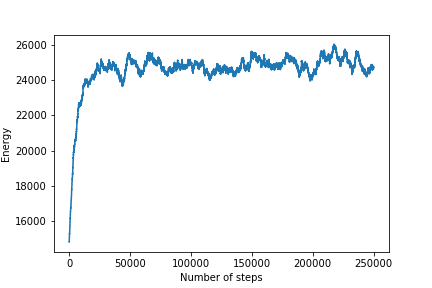
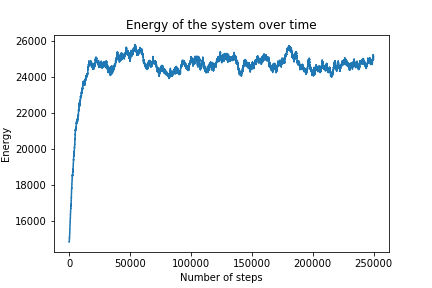
finished q1

diff --git a/Lab11/tex_file/PHY407_Lab11.tex b/Lab11/tex_file/PHY407_Lab11.tex
@@ -23,10 +23,17 @@
 
 \section{A First Monte Carlo Simulation}
 
+\subsection{Part a)}
+
+We seek to create plots of the energy as a function of time for the simulated ideal gas, as well as the frequency distribution of the energy of individual particles once the system reaches equlibrium, in the case $k_BT=10$ for the simulation of an ideal gas provided.
+
+We were able to achieve this with effectively no modifications to the code provided. The graphs produced are provided below in figures \ref{fig:q1a_energy} and \ref{fig:q1a_hist}.
+
 \begin{figure}[H]
 	\centering
 	\includegraphics[width=0.7\textwidth]{../images/q1a_energy.png}
-	\caption{}
+	\caption{Plot of the energy of the system over 250000 steps of the process of randomly increasing the states of random particles depending on the energy and temperature of the system.}
+	\label{fig:q1a_energy}
 \end{figure}
 
 \begin{figure}[H]
@@ -37,7 +44,41 @@
 		\begin{minipage}{0.49\linewidth}
 		\includegraphics[width=\linewidth]{../images/q1a_n_hist.png}
 	\end{minipage}
+	\caption{Histograms of the distribution of values of the normalized energy $e_n = n^2$ (left) and the value of $n$ (right) for the system after 250,000 steps, when it is in equilibrium.}
+	\label{fig:q1a_hist}
 \end{figure}
+
+\subsection{Part b)}
+
+We seek to calculate the value of the total energy at equilibrium, and the average value of the quantum number $n$, for the system at various temperatures.
+
+In order to achieve this, we adapted the code from part a) to iterate over the different temperatures desired, and run the Monte Carlo energy calculating scheme for each. In order to determine how long to run the simulation for at each temperature, we used a condition which would, at every 200,000th step, calculate the average energy across the most recent 200,000 steps and compare it to that of the previous set of 200,000 steps. Once the average energy of the more recent set of 200,000 steps is less than or equal to that of the previous set, we conclude that the system must have reached equilibrium, and stop iterating. The value of 200,000 was chosen from a combination of visual inspection of the size of the fluctuations in the energy and a component of trial and error.
+
+\begin{figure}[H]
+	\centering
+	\includegraphics[width=0.8\textwidth]{../images/q1b_energies.png}
+	\caption{Energy as a function of time for six different temperatures of the system, plotted until they reach equilibrium.}
+	\label{fig:q1b_energies}
+\end{figure}
+
+\begin{figure}[H]
+	\centering
+	\begin{minipage}{0.49\linewidth}
+		\includegraphics[width=\linewidth]{../images/q1b_av_energy.png}
+		\caption{Equilibrium energy as a function of system temperature for the range of temperatures tested.}
+		\label{fig:q1b_av_energy}
+	\end{minipage}
+		\begin{minipage}{0.49\linewidth}
+		\includegraphics[width=\linewidth]{../images/q1b_av_n.png}
+		\caption{Average value of $n$ as a function of system temperature for the range of temperatures tested.}
+		\label{fig:q1b_av_n}
+	\end{minipage}
+\end{figure}
+
+For each temperature, we computed the average value of $n$ using equation 5 from the handout, as well as stored the average value of the energy once the system reached equilibrium; these are plotted in figures \ref{fig:q1b_av_n} and \ref{fig:q1b_av_energy}, respectively. From the slope of the graph in figure \ref{fig:q1b_av_energy}, we calculate that the value of $\Delta E / \Delta T$ over the range of temperatures tested is approximately:
+\begin{equation}
+	\frac{\Delta E}{\Delta T} \approx 1535
+\end{equation}
 
 \section{Ising Model}
 

diff --git a/Lab11/code/Lab11_Q1_b.py b/Lab11/code/Lab11_Q1_b.py
@@ -1,0 +1,111 @@
+#!/usr/bin/env python3
+# -*- coding: utf-8 -*-
+"""
+Created on Thu Nov 29 13:19:17 2018
+
+@author: Hayden
+"""
+
+#import modules
+from random import random,randrange
+from math import exp,pi
+import numpy as np
+import matplotlib.pyplot as plt
+
+#define values
+T = [10,40,100,400,1200,1600]
+N = 1000
+equil_cond = 200000
+
+#initialize lists
+#eplots = []
+n_averages = np.empty(len(T))
+E_averages = np.empty(len(T))
+
+#initialize figure
+plt.figure()
+
+#iterate over temperature valeus
+for l in range(len(T)):
+    
+    # Create a 2D array to store the quantum numbers
+    n = np.ones([N,3],int)
+
+    #initialize main loop
+    run = True
+    steps = 0
+    E_av_old = 0
+    
+    eplot = []
+    E = 3*N*pi*pi/2
+    
+    #while run condition is true
+    while run == True:
+        steps += 1
+        
+        # Choose the particle and the move
+        i = randrange(N)
+        j = randrange(3)
+        if random()<0.5:
+            dn = 1
+            dE = (2*n[i,j]+1)*pi*pi/2
+        else:
+            dn = -1
+            dE = (-2*n[i,j]+1)*pi*pi/2
+
+        # Decide whether to accept the move
+        if n[i,j]>1 or dn==1:
+            if random()<exp(-dE/T[l]):
+                n[i,j] += dn
+                E += dE
+
+        eplot.append(E)
+
+        #check if equilibrated
+        if steps%equil_cond == 0:
+            E_av_new = np.mean(eplot[steps-equil_cond:steps])
+            
+            #if equilibrium reached, store average and break loop
+            if E_av_new <= E_av_old:
+                run = False
+                E_averages[l] = (E_av_new+E_av_old)/2.0
+                
+            #swap old and new average values
+            E_av_old,E_av_new = E_av_new,E_av_old
+            
+    energy_n = n[:,0]**2 + n[:,1]**2 + n[:,2]**2
+    hist_output = plt.hist(energy_n, 50)
+
+    energy_frequency = hist_output[0]
+    energy_vals = 0.5*(hist_output[1][:-1] + hist_output[1][1:])
+    n_vals = energy_vals**0.5
+
+    n_av = np.sum(energy_frequency*n_vals)/np.sum(energy_frequency)
+
+    n_averages[l] = n_av
+    
+    plt.plot(eplot, label='$k_BT$='+str(T[l]))
+    
+plt.grid()
+plt.title('Energy as a function of time for system at various temperatures')
+plt.xlabel('Number of steps')
+plt.ylabel('Energy')
+plt.legend(loc='lower right')
+plt.xticks([0,0.5e6,1e6,1.5e6,2e6])
+plt.savefig('../images/q1b_energies.png')
+
+plt.figure()
+plt.plot(T, n_averages)
+plt.grid()
+plt.title('Average value of $n$ as a function of temperature')
+plt.xlabel('$k_BT$')
+plt.ylabel('Average value of $n$')
+plt.savefig('../images/q1b_av_n.png')
+
+plt.figure()
+plt.plot(T,E_averages)
+plt.grid()
+plt.title('Average value of equilibrium energy as a function of temperature')
+plt.xlabel('$k_BT$')
+plt.ylabel('Equilibrium energy')
+plt.savefig('../images/q1b_av_energy.png')

diff --git a/Lab11/code/mcsim.py b/Lab11/code/mcsim.py
@@ -10,12 +10,12 @@ from math import exp,pi
 import numpy as np
 import matplotlib.pyplot as plt
 
-T = 10.0
+T = 10
 N = 1000
 steps = 250000
 
 # Create a 2D array to store the quantum numbers
-n = ones([N,3],int)
+n = np.ones([N,3],int)
 
 # Main loop
 eplot = []
@@ -43,9 +43,9 @@ for k in range(steps):
 # Make the graph
 plt.figure(0)
 plt.plot(eplot)
+plt.title('Energy of the system over time')
 plt.ylabel("Energy")
 plt.xlabel("Number of steps")
-
 plt.savefig('../images/q1a_energy.png')
 
 #This calculates the energy of each particle, neglecting constant factors
@@ -54,6 +54,7 @@ energy_n = n[:,0]**2 + n[:,1]**2 + n[:,2]**2
 # This calculates the frequency distribution and creates a plot 
 plt.figure(1)
 plt.clf()
+plt.title('Histogram of normalized energy')
 plt.ylabel('Frequency')
 plt.xlabel('Normalized energy $e_n = n^2$')
 hist_output = plt.hist(energy_n, 50)
@@ -71,6 +72,11 @@ n_vals = energy_vals**0.5
 plt.figure(2)
 plt.clf()
 plt.bar(n_vals, energy_frequency, width=0.1)
+plt.title('Histogram of values of $n$')
 plt.ylabel('Frequency')
 plt.xlabel('Value of $n=\sqrt{e_n}$')
 plt.savefig('../images/q1a_n_hist.png')
+
+#compute average value of n
+n_av = np.sum(energy_frequency*n_vals)/np.sum(energy_frequency)
+print('Average value of n:',n_av)
